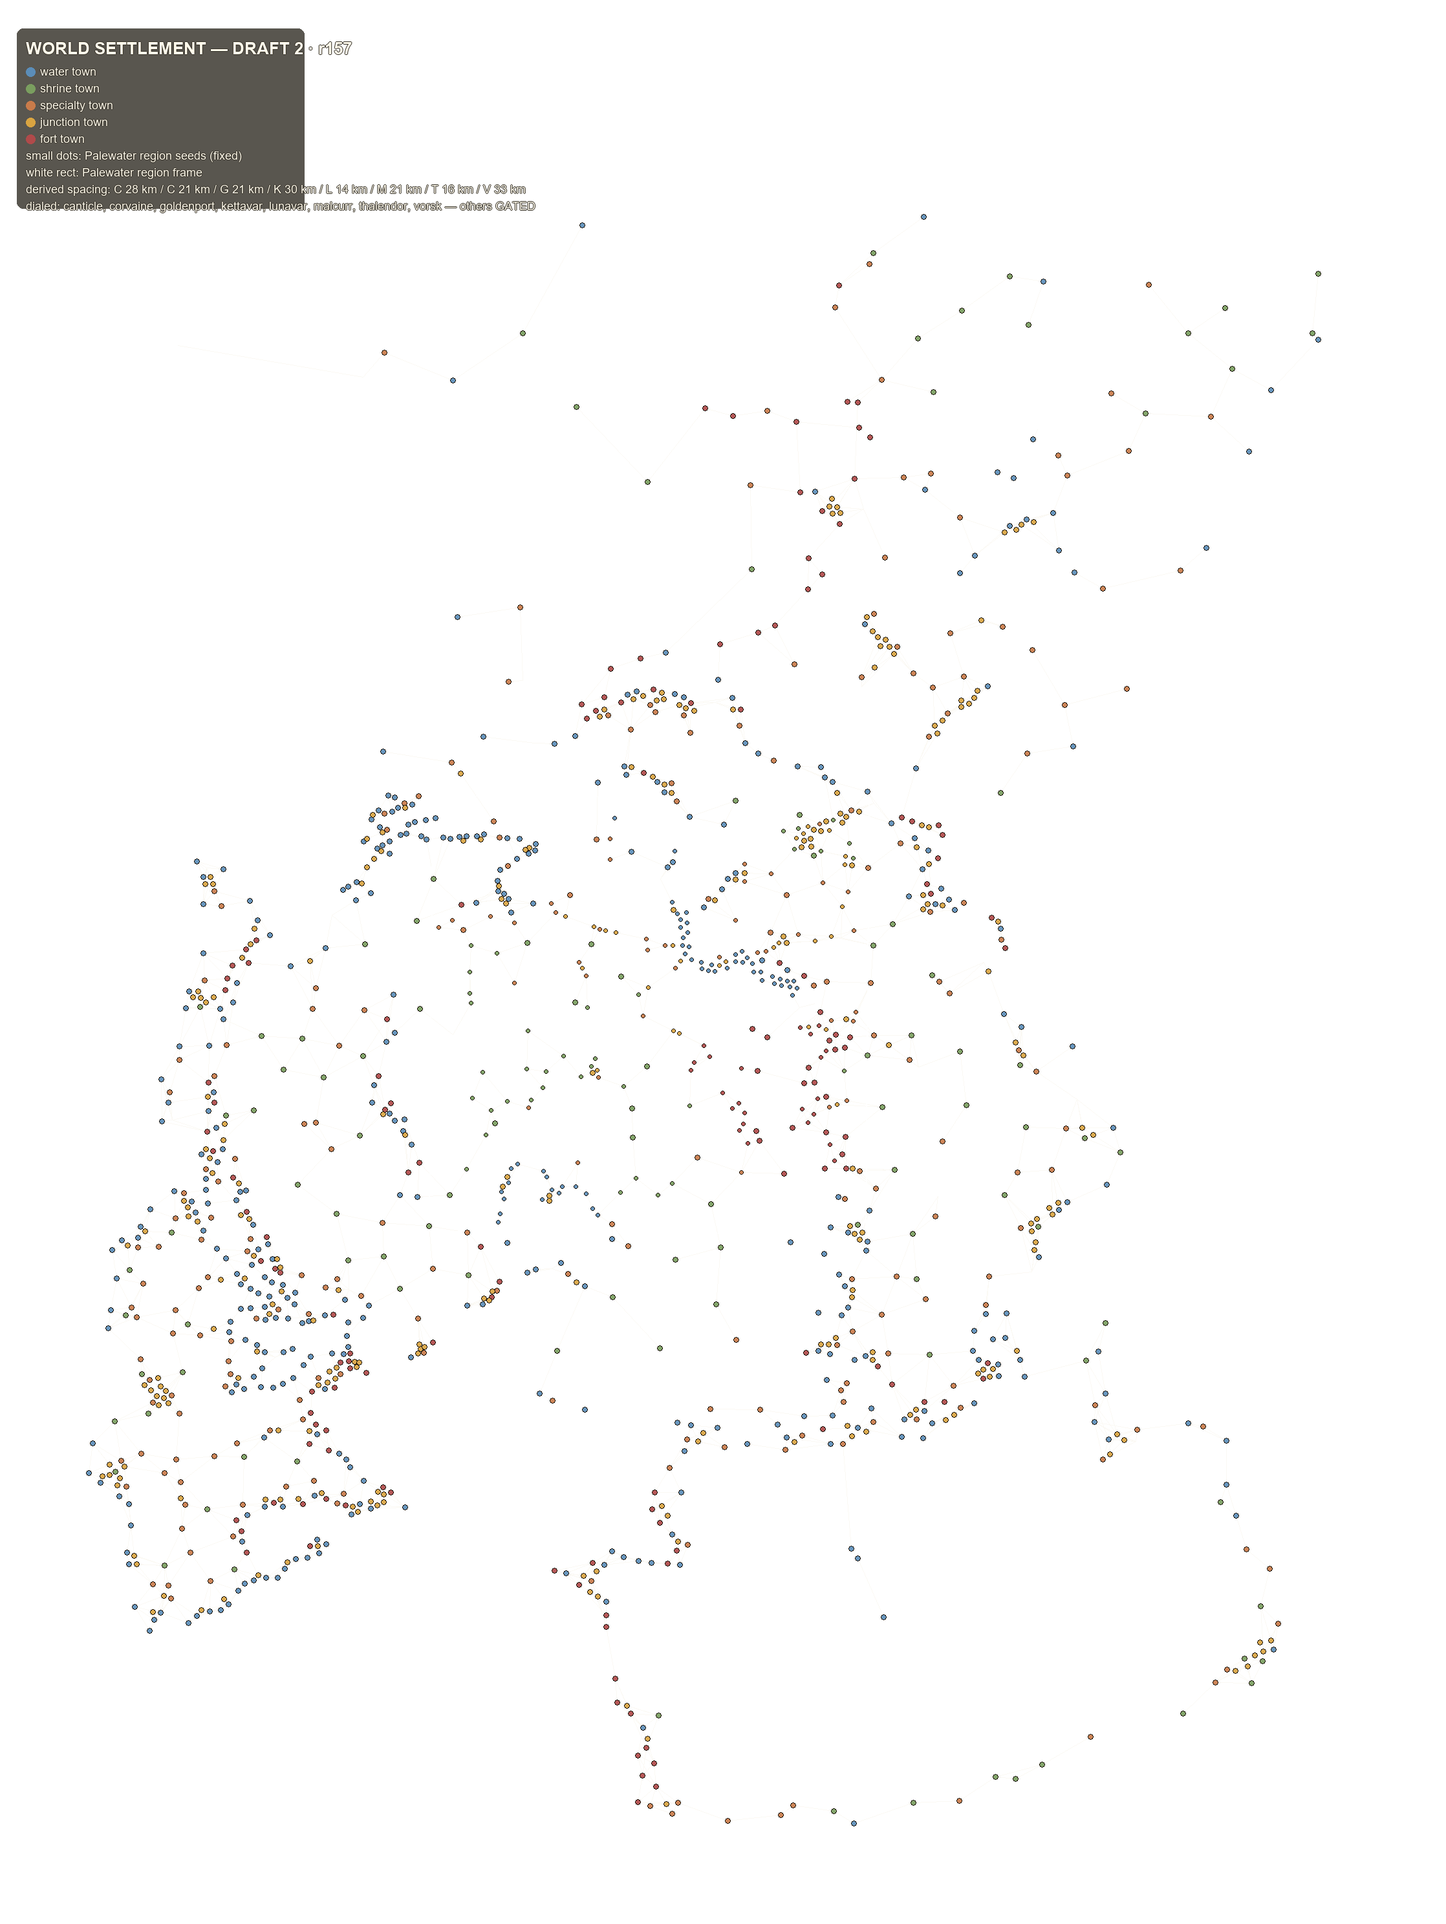
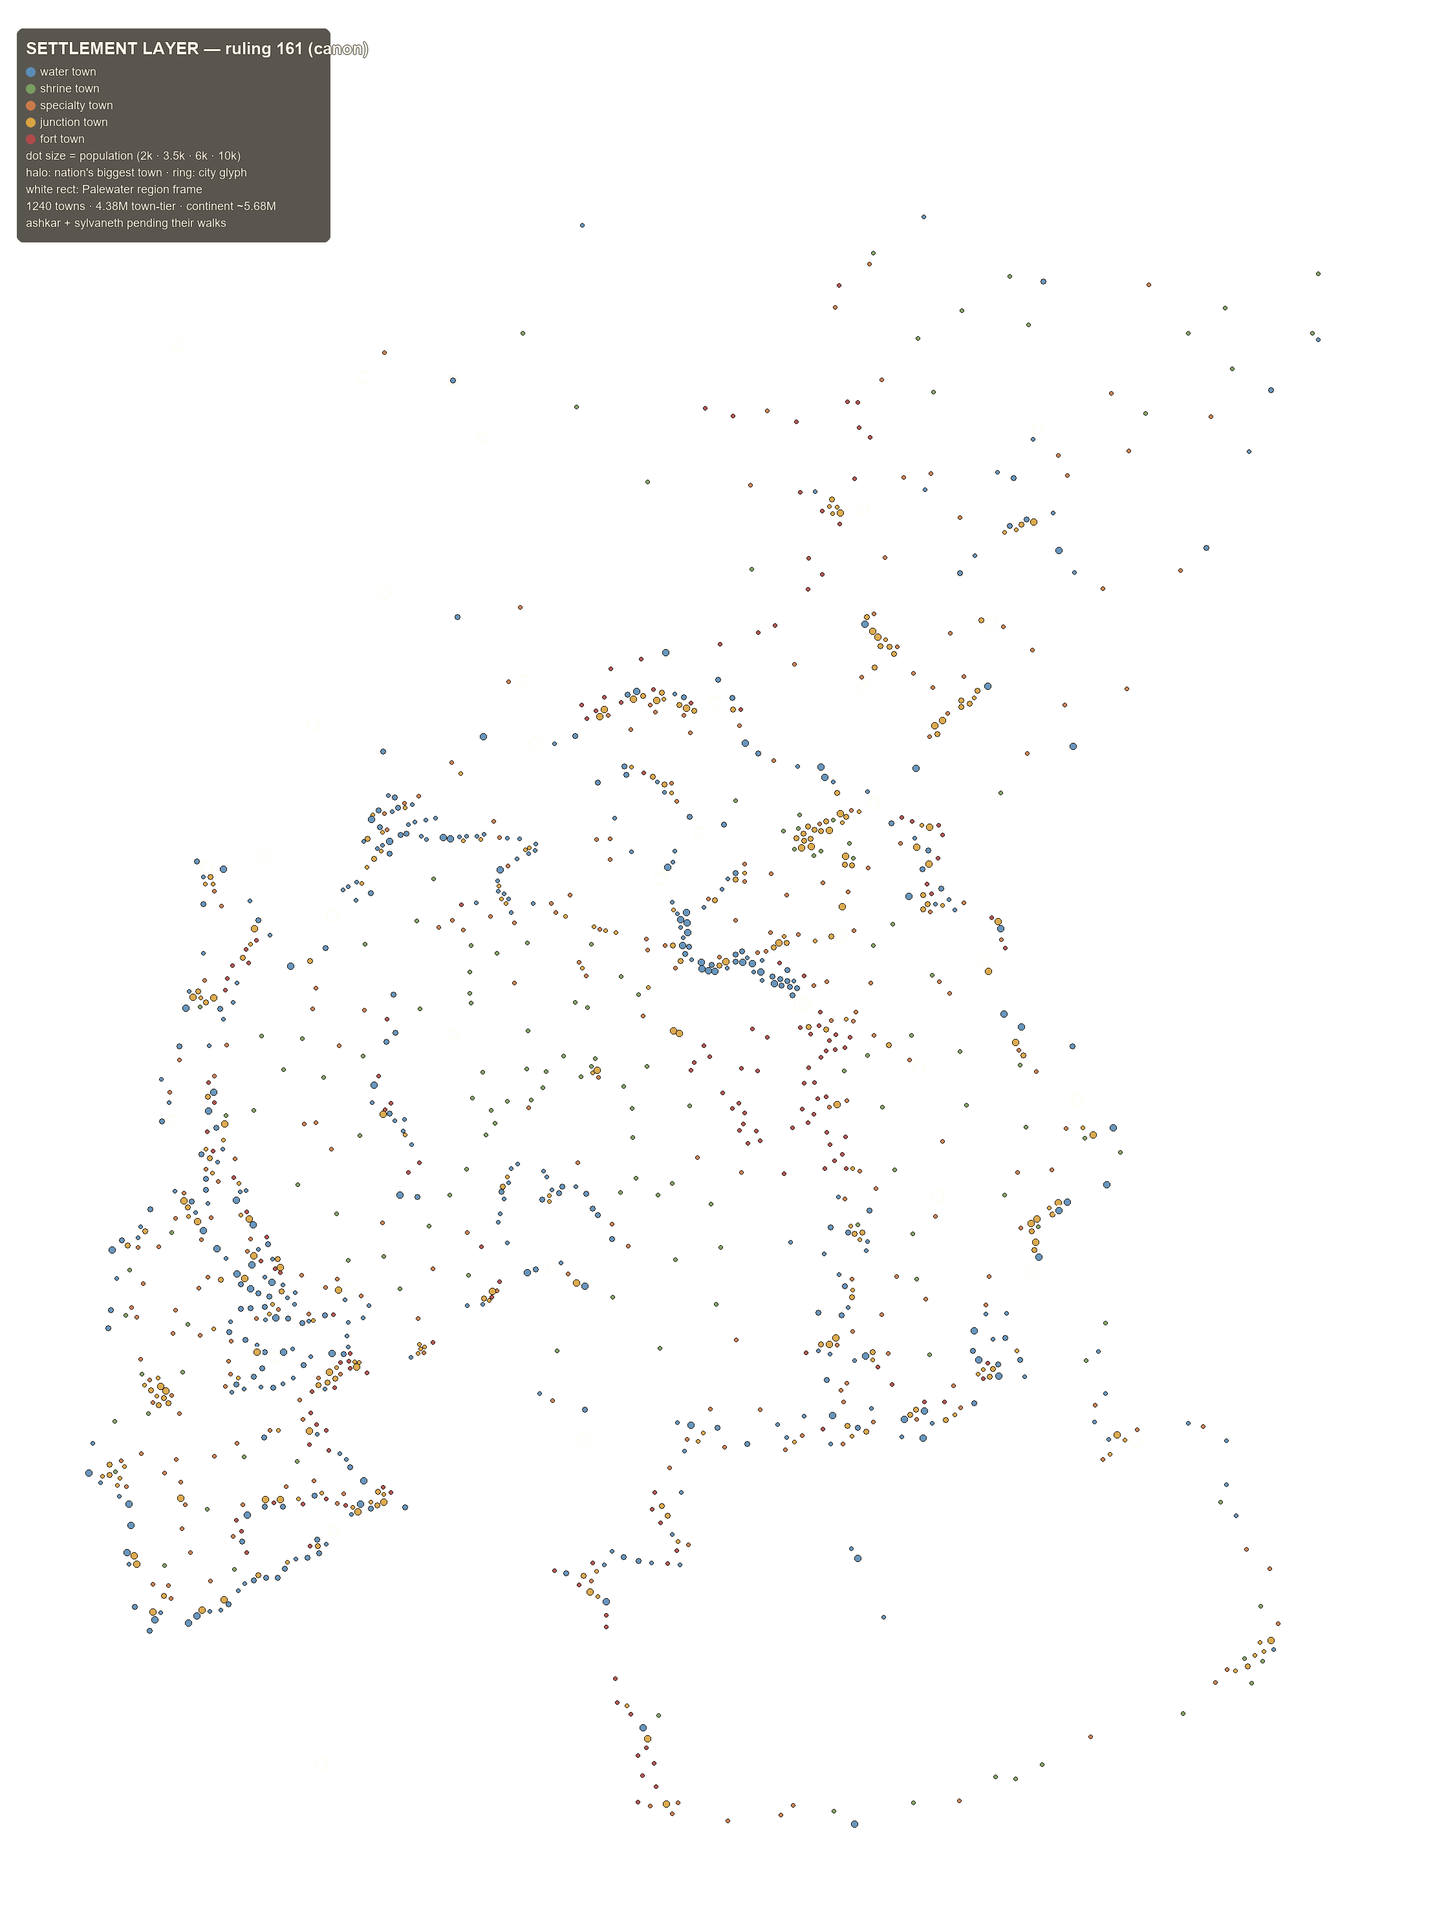
render_settlements.py: full-continent settlement overlay from canon (r161)
Pure render of gazetteer market_towns - dot radius by population tier
(2k/3.5k/6k/10k), driver colors, halo on each nation's biggest town, city
rings + region frame for orientation. world-settlement-overlay.png is now
this canon render (replaces the draft-2 generator output). Re-run after any
gazetteer settlement change. Docs/tooling only - no engine change, no rebuild.

Changed region(s): [[0.0, 0.0, 0.3703, 0.125]]

diff --git a/EDHA_DASHBOARD.html b/EDHA_DASHBOARD.html
@@ -5,7 +5,7 @@
 <meta name="viewport" content="width=device-width, initial-scale=1">
 <title>Edha — All-in-One Dashboard</title>
 <!-- GENERATED FILE — do not edit. Built by scripts/build-dashboard.js from the source docs
-     listed on each tab (combined stamp @038ad6ead2). Rebuild with: node scripts/build-dashboard.js -->
+     listed on each tab (combined stamp @3e03371573). Rebuild with: node scripts/build-dashboard.js -->
 <style>
 :root{--bg:#141a2b;--panel:#1c2438;--panel2:#232d46;--line:#32405f;--txt:#dde4f2;--dim:#93a0bd;
 --gold:#d8b76a;--pass:#4fc57e;--fail:#e2606c;--part:#e0a84f;--skip:#7d8bab;--flag:#ffb454}
@@ -110,7 +110,7 @@ color:#141a2b;font-weight:600;padding:8px 18px;border-radius:8px;display:none;z-
 </head>
 <body>
 <header>
-<h1>Edha — All-in-One Dashboard<span class="stamp">@038ad6ead2 · 830 rows · marks save locally as you click</span></h1>
+<h1>Edha — All-in-One Dashboard<span class="stamp">@3e03371573 · 830 rows · marks save locally as you click</span></h1>
 <div class="tabs"><button class="tab" data-tab="bench">Bench<span class="tabcount" data-tabcount="bench"></span></button><button class="tab" data-tab="art">Art<span class="tabcount" data-tabcount="art"></span></button><button class="tab" data-tab="world">Worldbuilding<span class="tabcount" data-tabcount="world"></span></button><button class="tab" data-tab="engine">Engine<span class="tabcount" data-tabcount="engine"></span></button><button class="tab" data-tab="repo">Repo<span class="tabcount" data-tabcount="repo"></span></button><button class="tab" data-tab="forben"><span class="flag">⚑</span> For Ben<span class="tabcount" data-tabcount="forben">10</span></button></div>
 <div class="bar">
 <input id="q" type="search" placeholder="search rows on this tab…">
@@ -2688,7 +2688,7 @@ color:#141a2b;font-weight:600;padding:8px 18px;border-radius:8px;display:none;z-
 </div><div class="prose"><strong>Session-2 prep starts from the run-sheet's §7 hooks table.</strong> The <strong>briar-gone shrine-grove</strong> (seeded at Withervale) is the prepped soft opener — rootling skirmishes + a root-warden-craft negotiation; it needs a gazetteer siting + warden name at prep time. The other live shapes: north (Malcurr gear / the writ / Roek contact — political) or south (the drain gradient toward the Crossing).</div><div class="prose"><strong>Character creation (2026-07-13):</strong> the players build PCs next. Hand out <strong><code>EDHA_PLAYER_PRIMER.md</code></strong> (player-safe nations/faiths/naming guide, spoiler-checked against the session-1 do-NOT-reveal wall; GM culture blocks in canon §5b). When the party exists, fill §1 above and retire the build-agnostic constraint.</div></div>
 </section></div></main>
 </div><div class="pane" data-tab="engine">
-<main><nav><a href="#engine-sec0" data-sec="engine-sec0"><span class="navtitle">Handoff §9 — engine backlog (canonical)</span><span class="navcount" data-count="engine-sec0"></span></a><a href="#engine-sec1" data-sec="engine-sec1"><span class="navtitle">§9a. Shared primitives — <strong>EMPTY (all 5 built 2026-07-04 → §9g)</strong></span><span class="navcount" data-count="engine-sec1"></span></a><a href="#engine-sec2" data-sec="engine-sec2"><span class="navtitle">§9b. Tree-local hooks — <strong>EMPTY (all 6 built 2026-07-04 → §9g)</strong></span><span class="navcount" data-count="engine-sec2"></span></a><a href="#engine-sec3" data-sec="engine-sec3"><span class="navtitle">§9c. Blocked on the cosmere system / Foundry (tracked, not buildable now)</span><span class="navcount" data-count="engine-sec3"></span></a><a href="#engine-sec4" data-sec="engine-sec4"><span class="navtitle">§9d. Bench-gated (a fallback is already named; fires only if the bench pass fails)</span><span class="navcount" data-count="engine-sec4"></span></a><a href="#engine-sec5" data-sec="engine-sec5"><span class="navtitle">§9e. Manual-by-design (NOT backlog — declared in the tree headers; RE-RULED item-by-item by Ben 2026-07-16, the manual-inventory pass)</span><span class="navcount" data-count="engine-sec5"></span></a><a href="#engine-sec6" data-sec="engine-sec6"><span class="navtitle">§9i. Combat/encounter engine rework (OPENED 2026-07-16 — Ben's D12/13 ruling; GATED on a design session)</span><span class="navcount" data-count="engine-sec6"></span></a><a href="#engine-sec7" data-sec="engine-sec7"><span class="navtitle">§9f. Post-playtest-1 balance review</span><span class="navcount" data-count="engine-sec7"></span></a><a href="#engine-sec8" data-sec="engine-sec8"><span class="navtitle">§9h. Equipment, money &amp; items initiative (opened 2026-07-15 — directions picked by Ben; everything here is GATED, nothing buildable blind)</span><span class="navcount" data-count="engine-sec8"></span></a><a href="#engine-sec9" data-sec="engine-sec9"><span class="navtitle">§9j. The player-facing pipeline → the character creator (RESCOPED 2026-07-18f — Ben; everything below is ordered, and everything is AHEAD of the creator)</span><span class="navcount" data-count="engine-sec9"></span></a><a href="#engine-sec10" data-sec="engine-sec10"><span class="navtitle">PC-manuals triage — B: engine-needed (deferred)</span><span class="navcount" data-count="engine-sec10"></span></a><a href="#engine-sec11" data-sec="engine-sec11"><span class="navtitle">PC-manuals triage — C: stays manual (workarounds)</span><span class="navcount" data-count="engine-sec11"></span></a><a href="#engine-sec12" data-sec="engine-sec12"><span class="navtitle">Forced-movement pilot — open verifies (FORCED_MOVEMENT_PILOT.md)</span><span class="navcount" data-count="engine-sec12"></span></a></nav><div class="content"><div class="srcnote">source: EDHA_FOUNDRY_HANDOFF.md §9 @6e8a668292 · triage @ddf4580245 · pilot @57e91a6d88</div><section id="engine-sec0" data-title="Handoff §9 — engine backlog (canonical)">
+<main><nav><a href="#engine-sec0" data-sec="engine-sec0"><span class="navtitle">Handoff §9 — engine backlog (canonical)</span><span class="navcount" data-count="engine-sec0"></span></a><a href="#engine-sec1" data-sec="engine-sec1"><span class="navtitle">§9a. Shared primitives — <strong>EMPTY (all 5 built 2026-07-04 → §9g)</strong></span><span class="navcount" data-count="engine-sec1"></span></a><a href="#engine-sec2" data-sec="engine-sec2"><span class="navtitle">§9b. Tree-local hooks — <strong>EMPTY (all 6 built 2026-07-04 → §9g)</strong></span><span class="navcount" data-count="engine-sec2"></span></a><a href="#engine-sec3" data-sec="engine-sec3"><span class="navtitle">§9c. Blocked on the cosmere system / Foundry (tracked, not buildable now)</span><span class="navcount" data-count="engine-sec3"></span></a><a href="#engine-sec4" data-sec="engine-sec4"><span class="navtitle">§9d. Bench-gated (a fallback is already named; fires only if the bench pass fails)</span><span class="navcount" data-count="engine-sec4"></span></a><a href="#engine-sec5" data-sec="engine-sec5"><span class="navtitle">§9e. Manual-by-design (NOT backlog — declared in the tree headers; RE-RULED item-by-item by Ben 2026-07-16, the manual-inventory pass)</span><span class="navcount" data-count="engine-sec5"></span></a><a href="#engine-sec6" data-sec="engine-sec6"><span class="navtitle">§9i. Combat/encounter engine rework (OPENED 2026-07-16 — Ben's D12/13 ruling; GATED on a design session)</span><span class="navcount" data-count="engine-sec6"></span></a><a href="#engine-sec7" data-sec="engine-sec7"><span class="navtitle">§9f. Post-playtest-1 balance review</span><span class="navcount" data-count="engine-sec7"></span></a><a href="#engine-sec8" data-sec="engine-sec8"><span class="navtitle">§9h. Equipment, money &amp; items initiative (opened 2026-07-15 — directions picked by Ben; everything here is GATED, nothing buildable blind)</span><span class="navcount" data-count="engine-sec8"></span></a><a href="#engine-sec9" data-sec="engine-sec9"><span class="navtitle">§9j. The player-facing pipeline → the character creator (RESCOPED 2026-07-18f — Ben; everything below is ordered, and everything is AHEAD of the creator)</span><span class="navcount" data-count="engine-sec9"></span></a><a href="#engine-sec10" data-sec="engine-sec10"><span class="navtitle">PC-manuals triage — B: engine-needed (deferred)</span><span class="navcount" data-count="engine-sec10"></span></a><a href="#engine-sec11" data-sec="engine-sec11"><span class="navtitle">PC-manuals triage — C: stays manual (workarounds)</span><span class="navcount" data-count="engine-sec11"></span></a><a href="#engine-sec12" data-sec="engine-sec12"><span class="navtitle">Forced-movement pilot — open verifies (FORCED_MOVEMENT_PILOT.md)</span><span class="navcount" data-count="engine-sec12"></span></a></nav><div class="content"><div class="srcnote">source: EDHA_FOUNDRY_HANDOFF.md §9 @425432ae33 · triage @ddf4580245 · pilot @57e91a6d88</div><section id="engine-sec0" data-title="Handoff §9 — engine backlog (canonical)">
 <h2><span class="tw">▾</span>Handoff §9 — engine backlog (canonical)<span class="hchips"></span><span class="seccount" data-count="engine-sec0"></span><button class="sechide" title="Hide this section for the rest of this browser session">hide</button><button class="secclear" title="Clear this section's marks">reset</button></h2>
 <div class="body"><div class="prose"><strong>This section is the single source of truth for the engine backlog.</strong> The tree-by-tree wiring loop is DONE (all 15 trees) AND the buildable backlog is BUILT (07-04: all 5 shared primitives + all 6 tree-local hooks — see the 07-04 delta and §9g). The per-tree &quot;Hooks/tools still to build&quot; / &quot;since built&quot; / &quot;Truly manual&quot; lists in each <code>register-skills.js</code> section header stay — they are load-bearing (audit.py's silent-card check reads ENGINE + DOCS mentions, and the &quot;named, not dropped&quot; convention documents each tree in place) — but for anything SHARED across trees, THIS is the canonical entry. What remains below is exclusively non-buildable-from-here: <strong>blocked-on-system → bench-gated → manual-by-design → post-playtest balance</strong>. (Deploy + the bench pass are separate outstanding work — see the top of <code>EDHA_FOUNDRY_TEST_CHECKLIST.md</code>, incl. the new &quot;Engine backlog pass&quot; bench section.)</div></div>
 </section><section id="engine-sec1" data-title="§9a. Shared primitives — EMPTY (all 5 built 2026-07-04 → §9g)">
@@ -2909,7 +2909,7 @@ color:#141a2b;font-weight:600;padding:8px 18px;border-radius:8px;display:none;z-
 <script>
 'use strict';
 const KEY='edha-test-sheet';
-const STAMP='038ad6ead2';
+const STAMP='3e03371573';
 let store={};
 try{store=JSON.parse(localStorage.getItem(KEY)||'{}')}catch(e){store={}}
 const save=()=>localStorage.setItem(KEY,JSON.stringify(store));

diff --git a/scripts/map/render_settlements.py b/scripts/map/render_settlements.py
@@ -1,0 +1,126 @@
+#!/usr/bin/env python3
+"""render_settlements.py — the full-continent settlement guide layer from CANON.
+
+Renders gazetteer `market_towns` (ruling 161: 1,240 driver-tagged towns with
+populations) as a transparent world-canvas overlay: dot radius scales with the
+town's population tier, driver colors per region-forge, city rings + the
+Palewater region frame for orientation. Pure render — no derivation; re-run
+after any gazetteer settlement change.
+
+Usage: python scripts/map/render_settlements.py <out-overlay.png> [<out-composite.jpg>]
+"""
+
+import json
+import math
+import sys
+from pathlib import Path
+
+from PIL import Image, ImageDraw, ImageFont
+
+ROOT = Path(__file__).resolve().parents[2]
+GAZ = ROOT / "source-materials/maps/thyrcross.map.json"
+BASE = ROOT / "source-materials/maps/thyrcross.png"
+
+DRIVER_STYLE = {
+    "water": (91, 141, 184),
+    "shrine": (122, 158, 95),
+    "specialty": (201, 123, 74),
+    "junction": (217, 164, 65),
+    "fort": (176, 74, 74),
+}
+TIERS = [(2000, 2), (3500, 3), (6000, 4), (10001, 5)]   # pop-ceiling -> radius
+
+
+def radius(pop):
+    for ceil, r in TIERS:
+        if pop < ceil or ceil == TIERS[-1][0]:
+            return r
+    return TIERS[-1][1]
+
+
+def main():
+    out_png = sys.argv[1]
+    out_jpg = sys.argv[2] if len(sys.argv) > 2 else None
+    gaz = json.load(open(GAZ))
+    W, H = gaz["meta"]["canvas_px"]
+    ov = Image.new("RGBA", (W, H), (0, 0, 0, 0))
+    dr = ImageDraw.Draw(ov)
+    for bold, reg in (("/usr/share/fonts/truetype/dejavu/DejaVuSans-Bold.ttf",
+                       "/usr/share/fonts/truetype/dejavu/DejaVuSans.ttf"),
+                      ("C:/Windows/Fonts/arialbd.ttf", "C:/Windows/Fonts/arial.ttf")):
+        try:
+            F = ImageFont.truetype(bold, 26)
+            Fs = ImageFont.truetype(reg, 18)
+            break
+        except OSError:
+            F = Fs = ImageFont.load_default()
+
+    def text_outlined(xy, s, font, fill=(255, 250, 235, 255)):
+        x, y = xy
+        for ox, oy in ((-1, 0), (1, 0), (0, -1), (0, 1)):
+            dr.text((x + ox, y + oy), s, font=font, fill=(20, 15, 5, 220))
+        dr.text((x, y), s, font=font, fill=fill)
+
+    # region frame (orientation)
+    rm = gaz["region_maps"][0]["world_transform"]
+    s, rot = rm["scale_region_px_per_world_px"], math.radians(rm["rotation_deg"])
+    a_, b_ = s * math.cos(rot), s * math.sin(rot)
+    ax, ay = rm["anchors"]["elmsworth"]["region_px"]
+    tx, ty = ax - (a_ * 1036 - b_ * 1359), ay - (b_ * 1036 + a_ * 1359)
+    det = a_ * a_ + b_ * b_
+
+    def r2w(p):
+        X, Y = p[0] - tx, p[1] - ty
+        return ((a_ * X + b_ * Y) / det, (-b_ * X + a_ * Y) / det)
+    corners = [r2w(p) for p in ((0, 0), (1384, 0), (1384, 1384), (0, 1384), (0, 0))]
+    dr.line([tuple(map(int, c)) for c in corners], fill=(255, 255, 255, 80), width=2)
+
+    # city rings (Ben's glyph tier — orientation only)
+    for c in gaz["cities"]:
+        x, y = c["px"]
+        dr.ellipse([x - 9, y - 9, x + 9, y + 9], outline=(255, 250, 235, 150), width=2)
+
+    towns = gaz["market_towns"]["towns"]
+    top = {}
+    for t in towns:
+        if t["nation"] not in top or t["pop"] > top[t["nation"]]["pop"]:
+            top[t["nation"]] = t
+    for t in sorted(towns, key=lambda t: t["pop"]):
+        x, y = t["px"]
+        r = radius(t["pop"])
+        col = DRIVER_STYLE[t["driver"]]
+        dr.ellipse([x - r, y - r, x + r, y + r], fill=col + (235,),
+                   outline=(25, 18, 8, 255), width=1)
+    for t in top.values():   # each nation's biggest town gets a halo
+        x, y = t["px"]
+        dr.ellipse([x - 8, y - 8, x + 8, y + 8],
+                   outline=(255, 250, 235, 200), width=2)
+
+    lx, ly = 40, 60
+    dr.rounded_rectangle([lx - 14, ly - 16, lx + 470, ly + 314], radius=10,
+                         fill=(20, 15, 5, 180))
+    text_outlined((lx, ly), "SETTLEMENT LAYER — ruling 161 (canon)", F)
+    ly += 40
+    for d, c in DRIVER_STYLE.items():
+        dr.ellipse([lx, ly + 4, lx + 14, ly + 18], fill=c + (255,))
+        text_outlined((lx + 22, ly), f"{d} town", Fs)
+        ly += 26
+    text_outlined((lx, ly), "dot size = population (2k · 3.5k · 6k · 10k)", Fs); ly += 26
+    text_outlined((lx, ly), "halo: nation's biggest town · ring: city glyph", Fs); ly += 26
+    text_outlined((lx, ly), "white rect: Palewater region frame", Fs); ly += 26
+    n_pop = sum(t["pop"] for t in towns)
+    text_outlined((lx, ly),
+                  f"{len(towns)} towns · {n_pop / 1e6:.2f}M town-tier"
+                  f" · continent ~5.68M", Fs); ly += 26
+    text_outlined((lx, ly), "ashkar + sylvaneth pending their walks", Fs)
+
+    ov.save(out_png)
+    print(f"wrote {out_png} ({len(towns)} towns)")
+    if out_jpg:
+        base = Image.open(BASE).convert("RGBA")
+        Image.alpha_composite(base, ov).convert("RGB").save(out_jpg, quality=90)
+        print(f"wrote {out_jpg}")
+
+
+if __name__ == "__main__":
+    main()

diff --git a/EDHA_FOUNDRY_HANDOFF.md b/EDHA_FOUNDRY_HANDOFF.md
@@ -24,7 +24,9 @@ Kettavar 27k; per-town pops rank-size 2–10k, ledgers close EXACTLY
 starving NOW** (~40% caloric deficit at the 42.5% yield; the Mage's alchemy is the dam) —
 §6 table updated, everything else old-figure = superseded-pending-sweep = **W32**. Also:
 gazetteer `market_towns` rebuilt (1,240 rows, driver+pop tagged), region+world overlays
-tracked in source-materials/maps/, ⚑ Ben: city totals for the six non-walked nations are
+tracked in source-materials/maps/ (the world overlay is NEW `render_settlements.py`'s
+canon render — dot size = population tier, halo = nation's biggest town; re-run after
+any gazetteer settlement change), ⚑ Ben: city totals for the six non-walked nations are
 provisional; W30 naming queue now sits atop a much larger unnamed layer.) Prior:
 **2026-07-22j** (REGION-FORGE
 TRAVEL/SPACING DERIVATION — **ruling 157**, docs/gazetteer/skill only, NO engine change, NO
